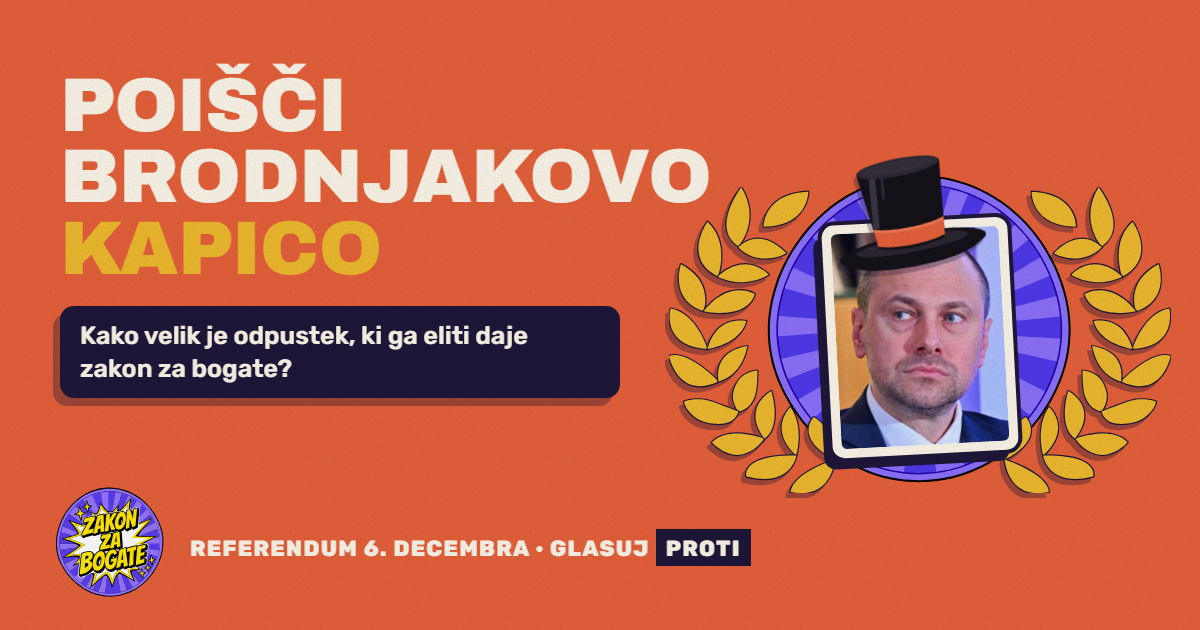
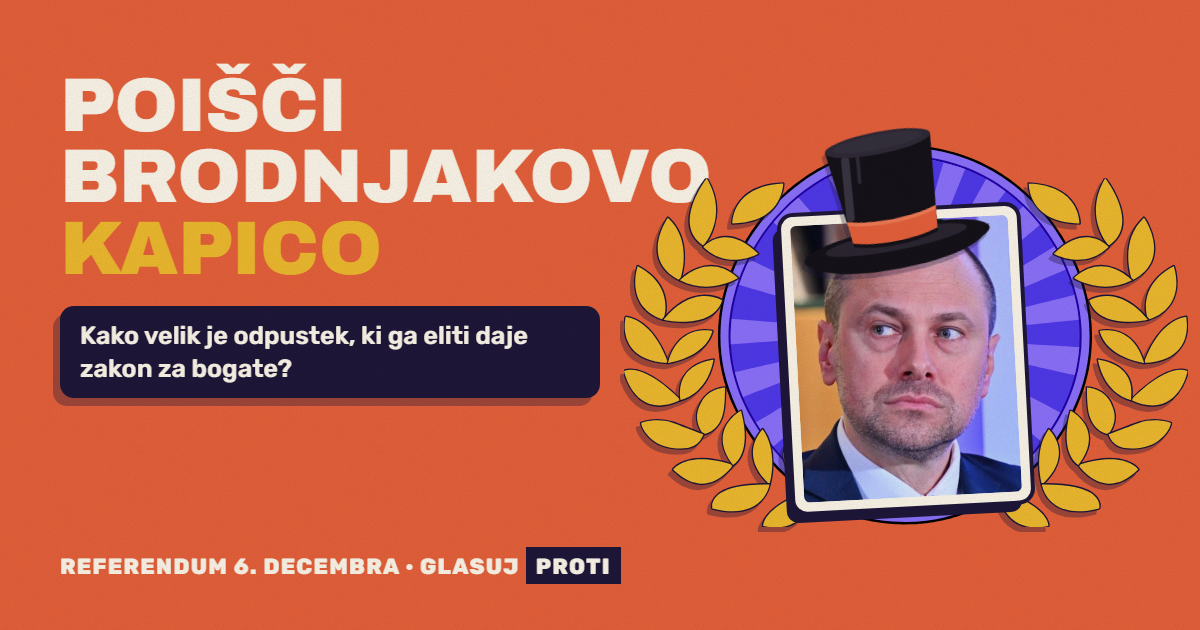
OG slika: brez logotipa, večji Brodnjak

Changed region(s): [[0.0308, 0.181, 1.0, 0.9651]]

diff --git a/og.html b/og.html
@@ -48,7 +48,7 @@ h1 em{font-style:normal;color:var(--accent)}
 .ve .sub,.vf .sub,.vg .tag{display:none}
 .vg .left{top:70px}
 .vg h1{margin-top:0;font-size:76px}
-.vg .sub{font:600 27px/1.3 'Rubik';max-width:560px;margin-top:22px}
+.vg .sub{font:600 27px/1.3 'Rubik';max-width:540px;margin-top:22px}
 .ve .logo,.vf .logo,.vg .logo{right:auto;left:50px;top:auto;bottom:28px;width:120px;transform:rotate(-6deg)}
 .ve .foot,.vg .foot{left:190px;bottom:70px}
 .vf .tag{display:none}
@@ -57,6 +57,14 @@ h1 em{font-style:normal;color:var(--accent)}
 .vf .logo{width:160px;bottom:18px;left:44px;transform:rotate(-8deg)}
 .vf .foot{left:226px;bottom:74px}
 .vg .sub{display:inline-block;background:var(--ink);color:var(--paper);padding:14px 20px 13px;border-radius:14px;box-shadow:-7px 8px 0 rgba(30,22,56,.35);font-size:25px}
+/* G: brez logotipa, večji Brodnjak */
+.vg .logo{display:none}
+.vg .foot{left:60px;bottom:52px}
+.vg .right{left:626px;width:560px}
+.vg .rays{width:420px;top:53%}
+.vg .br{width:400px;top:56%}
+.vg .br.l{left:calc(50% - 82px)} .vg .br.r{left:calc(50% + 82px)}
+.vg .frame{width:236px;top:55%}
 .hide{display:none}
 </style>
 </head>
